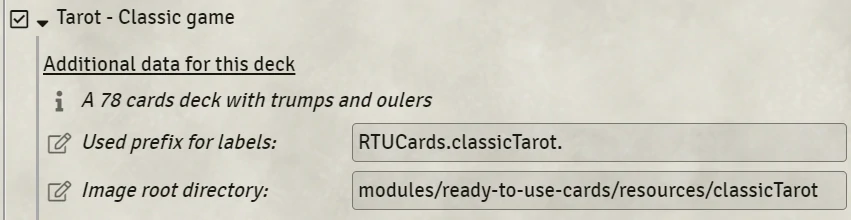
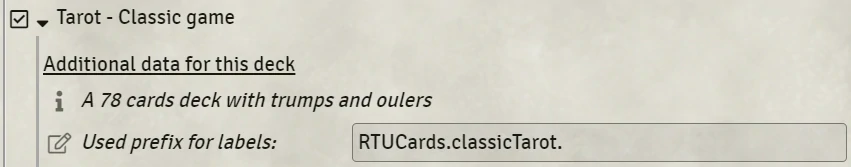
version 1.9.0

diff --git a/README.md b/README.md
@@ -101,18 +101,13 @@ But if you're creating you're own custom decks, you may want to check what those
 
 You will have more details on how this works inside [README LABELS](./README_DEVELOPERS.md)
 
-`Image root directory` : By default, deck icons and the card back are defined from this directory. It follows this structure : 
+## Changing icons and card default background
 
-~~~sh
-./background/back.webp
-./background/front.webp
-./icons/back.webp
-./icons/front.webp
-~~~
+This functionnality is available for decks and discard piles. Only the GMs are allowed to do it.
 
-> If you want to change those images, you need create a new directory in your world and put the image you want by following the previous structure. Then edit this directory path.
+It can be accessed via the main display :
 
-> For now, if the deck was already created in your world, the icon won't be changed. You will need to delete it, and recreate it with the correct value.
+![Config icons](docs/README_config_icons.webp?raw=true)
 
 **Why two images?**
 

diff --git a/CHANGELOG.md b/CHANGELOG.md
@@ -1,5 +1,15 @@
 # CHANGELOG
 
+## Release 1.9.0
+
+### Features
+- Allow changes of deck/discard icons as well as cards default back image.
+
+![Config icons](docs/README_config_icons.webp?raw=true)
+
+### Translation
+- Labels for the new window : `RTUCards.settings.config-backs.*`
+
 ## Release 1.8.0
 
 ### Features
